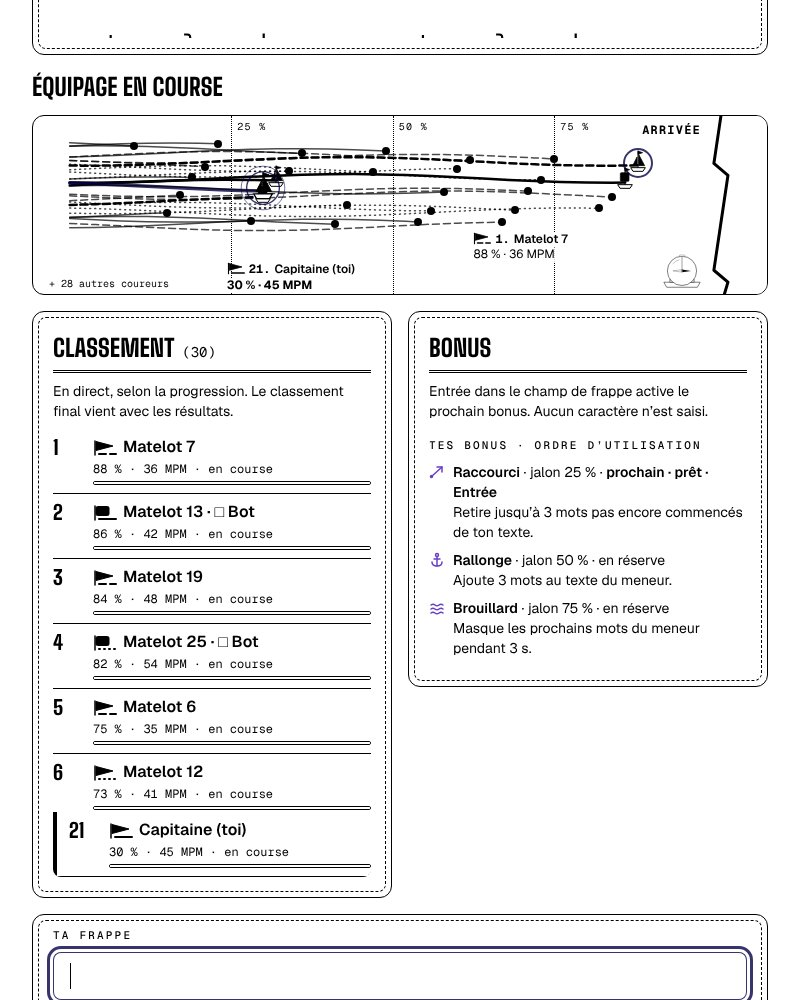
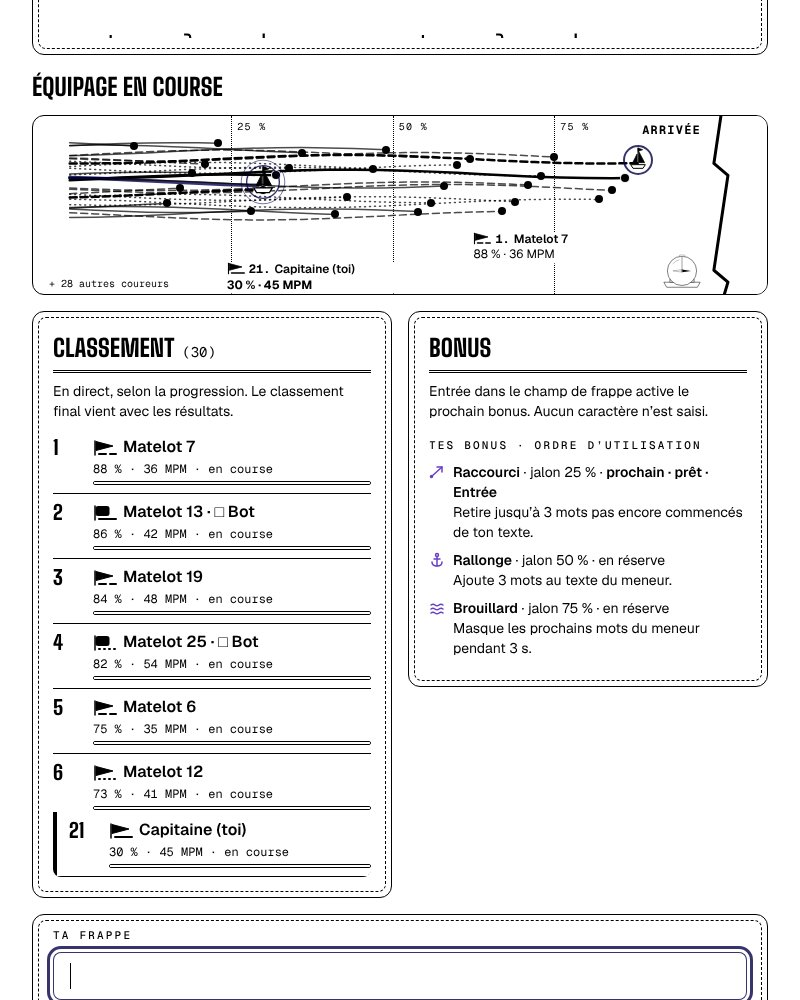
fix(races): apply the code and UI/UX reviews of the race ships
- The coast band is never thinner than its two words, so the coastline no
  longer crosses « + N autres coureurs » on a short chart.
- On the tablet's horizontal chart only the two runners it names (me and
  the leader) sail a ship; the other named ones are dots again, and the
  lanes stay clear of the leader's name.
- Overrides of the drawings' display and size no longer depend on the
  order of the two stylesheets; a name has a Canvas background in forced
  colours; dead rules and stale comments removed.
- The specs measure the hulls, not only the zero-size markers, and check
  names against hulls on the horizontal chart too. Captures refreshed.

Claude-Session: https://claude.ai/code/session_01FBFqZL8NQL9Yzz1qyg8vKZ

Changed region(s): [[0.0625, 0.124, 0.8125, 0.248]]

diff --git a/apps/web/src/components/races/race-track.module.css b/apps/web/src/components/races/race-track.module.css
@@ -18,7 +18,8 @@
   border: 1px solid var(--color-houle);
   background: var(--color-mer);
 }
-.horizontalOnly { display: none; }
+/* `.track` in front: these win over the drawings' own `display`, whatever the stylesheets' order. */
+.track .horizontalOnly { display: none; }
 /* A milestone: a dotted parallel across the chart, with its share of the text. */
 .milestone {
   position: absolute;
@@ -45,12 +46,13 @@
   top: 0;
   left: 0;
   width: 100%;
-  height: 15%;
+  /* Never thinner than its two words: on the shortest chart the shore stays under them. */
+  height: max(15%, 36px);
   pointer-events: none;
 }
 .finishText {
   position: absolute;
-  top: 8px;
+  top: 6px;
   left: 12px;
   color: var(--color-erreur);
   font-weight: 700;
@@ -114,9 +116,9 @@
 /* A named runner: the marker is the foot of its ship, which carries the colour on its sail. */
 .named { z-index: 2; width: 0; height: 0; box-shadow: none; }
 .self { z-index: 3; }
+/* The front runner: its ship has the `or` ring; on the tablet's chart it keeps its ship. */
 .leader { z-index: 2; }
 .bot { border-radius: 6px; }
-.named.bot { border-radius: 0; }
 .ship {
   --ship-size: 46px;
   position: absolute;
@@ -142,12 +144,12 @@
 .rank { margin-right: 4px; font-family: var(--font-mono); font-weight: 700; }
 .rank::after { content: "."; }
 .selfLabel { font-weight: 700; }
-.more { position: absolute; top: 8px; right: 12px; color: var(--color-embrun); }
+.more { position: absolute; top: 6px; right: 12px; color: var(--color-embrun); }
 .horizontalMore { display: none; }
 
 /* A runner's pennant before its name: the sail's shape, the route's colour and dash. */
 /* Smaller than in the standings: a name's line keeps its 12 px height, so five names still fit apart. */
-.pennant { width: 18px; height: 12px; margin-right: 4px; vertical-align: -1px; }
+.track .pennant { width: 18px; height: 12px; margin-right: 4px; vertical-align: -1px; }
 
 /* In the race's row (≥ 1024 px), the chart fills the row's height instead of its own. */
 @media (min-width: 1024px) {
@@ -156,12 +158,16 @@
 }
 /* Tablet: the same chart turned on its side, the start on the left and the coast on the right. */
 @media (min-width: 640px) and (max-width: 1023px) {
-  .verticalMore, .verticalRoutes, .verticalOnly { display: none; }
+  .verticalMore, .verticalRoutes, .track .verticalOnly { display: none; }
   .horizontalMore { display: inline; }
-  .horizontalRoutes, .horizontalOnly { display: block; }
+  .horizontalRoutes, .track .horizontalOnly { display: block; }
   .track { height: 180px; }
   .point { left: var(--horizontal-x); top: var(--horizontal-y); }
   .ship { --ship-size: 36px; }
+  /* Only the two runners named on this chart sail a ship; the other named ones are dots again,
+     as « + N » counts them. */
+  .named:not(.self):not(.leader) { width: 8px; height: 8px; box-shadow: 0 0 0 1px var(--color-mer); }
+  .named:not(.self):not(.leader) .ship { display: none; }
   .self .ship { --ship-size: 46px; }
   .milestone { top: 0; left: var(--at-x); width: 1px; height: 100%;
     background: repeating-linear-gradient(180deg, var(--color-houle) 0 2px, transparent 2px 8px); }
@@ -183,6 +189,8 @@
   .selfRoute { stroke: Highlight; }
   .milestone { background: none; border-top: 1px dotted CanvasText; }
   .finishText, .milestoneLabel, .more { color: CanvasText; }
+  /* A milestone's dotted line must not strike a name through. */
+  .label { background: Canvas; }
 }
 @media (forced-colors: active) and (min-width: 640px) and (max-width: 1023px) {
   .milestone { border-top: 0; border-left: 1px dotted CanvasText; }

diff --git a/apps/web/e2e/race-track.spec.ts b/apps/web/e2e/race-track.spec.ts
@@ -152,9 +152,9 @@ for (const [locale, theme] of [["fr-CA", "aube"], ["fr-CA", "abysse"], ["en-US",
       // One coast and one compass at every width; on the tablet's horizontal chart the coast is on the right.
       await expect(track.locator("[data-coast]:visible")).toHaveAttribute("data-coast", width === 800 ? "vertical" : "horizontal");
       await expect(track.locator("[data-compass]:visible")).toHaveCount(1);
-      // Ships and dots stay inside the chart, whatever its direction.
-      const inside = await track.locator("[data-runner]").evaluateAll(markers => { const box = markers[0]!.closest("[data-testid=race-track]")!.getBoundingClientRect();
-        return markers.every(marker => { const at = marker.getBoundingClientRect(); return at.left >= box.left && at.right <= box.right && at.top >= box.top && at.bottom <= box.bottom; }); });
+      // Dots and hulls stay inside the chart, whatever its direction (a named marker is its ship's foot).
+      const inside = await track.locator("[data-runner], [data-ship]:visible > path:last-of-type").evaluateAll(marks => { const box = marks[0]!.closest("[data-testid=race-track]")!.getBoundingClientRect();
+        return marks.every(mark => { const at = mark.getBoundingClientRect(); return at.left >= box.left && at.right <= box.right && at.top >= box.top && at.bottom <= box.bottom; }); });
       expect(inside).toBe(true);
       await page.screenshot({ animations: "disabled", path: test.info().outputPath(`track-${theme}-${width}.png`), fullPage: true });
       if (width === 360) await expectNoAccessibilityViolation(page);
@@ -168,7 +168,7 @@ for (const [locale, theme] of [["fr-CA", "aube"], ["fr-CA", "abysse"], ["en-US",
     // The marker no longer carries initials (DA2-2): its ship's sail and hull take the two system colours.
     const systemColors = await marker.evaluate(el => ({ background: getComputedStyle(el).backgroundColor,
       sail: getComputedStyle(el.querySelector("[data-sail-cloth]")!).fill, hull: getComputedStyle(el.querySelector("[data-ship] > path:last-of-type")!).fill,
-      edge: getComputedStyle(el.closest("[data-testid=race-track]")!.querySelector("[data-coast]:not([hidden]) [data-coast-edge]")!).stroke,
+      edge: getComputedStyle(el.closest("[data-testid=race-track]")!.querySelector('[data-coast="horizontal"] [data-coast-edge]')!).stroke,
       forced: matchMedia("(forced-colors: active)").matches }));
     expect(systemColors.forced).toBe(true);
     expect(systemColors.sail).toBe(systemColors.background);

diff --git a/apps/web/e2e/da2-race.spec.ts b/apps/web/e2e/da2-race.spec.ts
@@ -105,16 +105,20 @@ for (const item of cases) {
     await expect(track.locator("[data-compass]:visible")).toHaveCount(1);
     await expect(track.getByText(locale === "fr-CA" ? "Arrivée" : "Finish", { exact: true })).toBeVisible();
     const boxes = await chartBoxes(page);
-    // Every marker inside the chart; no name over another name, the compass or a hull.
-    for (const marker of boxes.markers) {
+    // Every marker and hull inside the chart; no name over another name, the compass or a hull.
+    for (const marker of [...boxes.markers, ...boxes.ships]) {
       expect(marker.left).toBeGreaterThanOrEqual(boxes.track.left); expect(marker.right).toBeLessThanOrEqual(boxes.track.right);
       expect(marker.top).toBeGreaterThanOrEqual(boxes.track.top); expect(marker.bottom).toBeLessThanOrEqual(boxes.track.bottom);
     }
-    expect(boxes.ships.length).toBeGreaterThanOrEqual(3);
+    // Five named runners sail on the vertical chart; on the tablet's, only the two it names (me and a sole leader).
+    if (horizontal) expect(boxes.ships.length).toBe(boxes.labels.length); else expect(boxes.ships.length).toBeGreaterThanOrEqual(3);
+    // Along the top, the coastline never crosses the finish word or the others' count.
+    if (!horizontal) expect(await track.evaluate(el => { const edge = el.querySelector("[data-coast]:not([data-coast=vertical]) [data-coast-edge]")!.getBoundingClientRect();
+      return [...el.querySelectorAll(":scope > span")].filter(word => getComputedStyle(word).top === "6px").every(word => word.getBoundingClientRect().bottom <= edge.top + 1); })).toBe(true);
     for (const [i, label] of boxes.labels.entries()) {
       for (const other of boxes.labels.slice(i + 1)) expect(overlap(label, other), "two names overlap").toBe(false);
       for (const compass of boxes.compass) expect(overlap(label, compass), "a name over the compass").toBe(false);
-      if (!horizontal) for (const hull of boxes.ships) expect(overlap(label, hull), "a name over a hull").toBe(false);
+      for (const hull of boxes.ships) expect(overlap(label, hull), "a name over a hull").toBe(false);
     }
     // The compass is on the chart, clear of the text sheet above it.
     if (width >= 768) {

diff --git a/apps/web/src/components/races/track-layout.ts b/apps/web/src/components/races/track-layout.ts
@@ -29,7 +29,7 @@ export type RouteStyle = {
 /**
  * Each runner's route, fixed for the round: the player's own in `moi`, the others by their place
  * in the crew sorted by id (not by rank, which changes), a colour then a dash pattern, so that
- * twelve neighbours never share both. Names, initials and markers still identify every runner:
+ * twelve neighbours never share both. Names, pennants and sails still identify every runner:
  * the colour is never the only cue (rule 8).
  */
 export function routeStyle(stableIndex: number, self: boolean): RouteStyle {
@@ -90,7 +90,7 @@ export const trackX = (t: number) => 5 + 88 * t;
 /** The milestones drawn across the chart, as shares of the text. */
 export const MILESTONES = [0.25, 0.5, 0.75] as const;
 
-/** The names' column (in % of the chart's height): five two-line names (31 px) fit apart on a 12 rem chart, under the finish band (12 %). */
+/** The names' column (in % of the chart's height): five two-line names (31 px) fit apart on a 12 rem chart, under the coast (15 %). */
 export const LABEL_TOP = 25;
 export const LABEL_BOTTOM = 90;
 export const LABEL_GAP = 16.25;
@@ -117,7 +117,7 @@ export function trackLayout(entrants: readonly Runner[], selfId: string | null):
     // The lanes leave the chart's bottom-left corner (vertical) and bottom edge (horizontal) to the
     // compass and the names: a ship never starts or sails over them.
     const lane = 16 + 39 * (stable.length <= 1 ? 0.5 : index / (stable.length - 1));
-    const horizontalLane = 16 + 46 * (stable.length <= 1 ? 0.5 : index / (stable.length - 1));
+    const horizontalLane = 16 + 40 * (stable.length <= 1 ? 0.5 : index / (stable.length - 1));
     const vertical = (t: number) => [lane + swing(t, id), trackY(t)] as const;
     const horizontal = (t: number) => [trackX(t), horizontalLane + swing(t, id)] as const;
     const progress = ratio(runner);

diff --git a/apps/web/src/components/races/race-track.tsx b/apps/web/src/components/races/race-track.tsx
@@ -44,8 +44,8 @@ export const RaceTrack = memo(function RaceTrack({ entrants, progress, selfId, t
         <span className={styles.milestoneLabel}>{formatProgress(share * 100, 100, locale)}</span>
       </span>)}
       {/* The finish is a coast: one drawing, along the top (vertical chart) or the right (horizontal). */}
-      <div className={`${styles.coast} ${styles.verticalOnly}`} data-finish="vertical"><Coast orientation="horizontal" /></div>
-      <div className={`${styles.coast} ${styles.horizontalOnly}`} data-finish="horizontal"><Coast orientation="vertical" /></div>
+      <div className={`${styles.coast} ${styles.verticalOnly}`}><Coast orientation="horizontal" /></div>
+      <div className={`${styles.coast} ${styles.horizontalOnly}`}><Coast orientation="vertical" /></div>
       <span className={`${styles.finishText} font-mono text-xs uppercase tracking-widest`}>{text.finish}</span>
       {/* Away from the text sheet, under the routes: it measures nothing and never moves. */}
       <Compass heading={-90} className={`${styles.compass} ${styles.verticalOnly}`} />

diff --git a/docs/evidence/da2-2-race-ships/README.md b/docs/evidence/da2-2-race-ships/README.md
@@ -28,6 +28,10 @@ File names: `course-<width>x<height>-<theme>-<language>-<runners>[-forced-colour
 - **Pennant of a dashed runner**: the mock-up cuts it as a swallowtail. Here the cloth keeps the
   kind's shape (triangle: human, square: bot) and the dash is a sample of the route under it.
 - **Compass**: bottom-left of the chart instead of bottom-right, where the names' column is.
+- **A bot's name on the chart** no longer starts with « □ »: its square sail and square pennant say
+  it, as in the mock-up. The standings keep « · □ Bot » in words.
+- **Tablet chart**: only the two runners it names (me and the leader) sail a ship; the three
+  other named runners are dots there, as its « + N autres coureurs » counts them.
 - **Ships** are drawn at 85 % of the mock-up's size, so that they fit the shortest chart (12 rem).
 
 ## Contrast measured on the app (`race ships contrast`, 1440 × 900, 30 runners)
